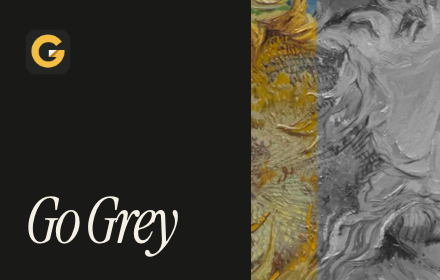
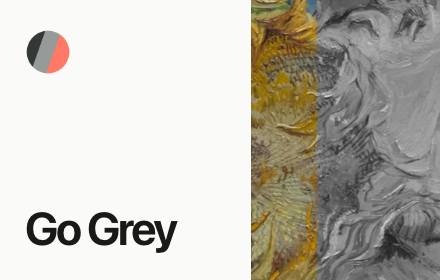
style: simplify the landing page and replace the folded g mark

diff --git a/docs/style.css b/docs/style.css
@@ -1,22 +1,13 @@
-@font-face {
-  font-family: "Instrument Serif";
-  src: url("type/instrument-serif.woff2") format("woff2");
-  font-style: italic;
-  font-weight: 400;
-  font-display: swap;
-}
-
 :root {
   --ink: #191a18;
   --cream: #f6f4ed;
-  --gold: #e5bf69;
-  --line: #42433d;
+  --accent: #ff7966;
+  --line: #ddded9;
   --mono: ui-monospace, "SFMono-Regular", Consolas, monospace;
-  --serif: "Instrument Serif", Georgia, serif;
-  color-scheme: dark;
+  color-scheme: light;
   font-family: -apple-system, BlinkMacSystemFont, "Segoe UI", sans-serif;
-  background: var(--ink);
-  color: var(--cream);
+  background: #fafaf8;
+  color: var(--ink);
 }
 * { box-sizing: border-box; }
 body { margin: 0; }
@@ -27,7 +18,7 @@ a:hover { text-decoration: underline; text-underline-offset: .22em; }
 .skip { position: absolute; top: -5rem; left: 1rem; padding: 10px 15px; background: var(--cream); color: var(--ink); z-index: 5; }
 .skip:focus { top: 1rem; }
 .wrap { width: min(1240px, 88%); margin-inline: auto; }
-.nav, .nav nav, .brand, .nav-action, .cta, .legend, .legend > span, figcaption, footer, footer div {
+.nav, .nav nav, .brand, .cta, .legend, .legend > span, figcaption, footer, footer div {
   display: flex;
   align-items: center;
 }
@@ -36,19 +27,16 @@ a:hover { text-decoration: underline; text-underline-offset: .22em; }
 .brand:hover { text-decoration: none; }
 .brand img { border-radius: 20%; }
 .nav nav { gap: 32px; font-size: 14px; }
-.nav-action, .cta { justify-content: center; gap: 16px; font-weight: 620; }
-.nav-action { border: 1px solid #585951; border-radius: 999px; padding: 10px 17px; }
-.nav-action:hover { border-color: var(--cream); text-decoration: none; }
+.cta { justify-content: center; gap: 16px; font-weight: 620; }
 .hero { display: grid; grid-template-columns: .84fr 1.16fr; align-items: center; gap: clamp(28px, 5vw, 88px); padding-block: clamp(55px, 6.7vw, 100px); }
-h1 { font-size: clamp(66px, 7.9vw, 124px); font-weight: 530; letter-spacing: -.052em; line-height: .98; }
-h1 em, h2 em { font-family: var(--serif); font-weight: 400; letter-spacing: -.018em; }
-h1 em { color: var(--gold); font-size: 1.19em; line-height: .8; }
-.intro > p { color: #c2c1b9; font-size: clamp(17px, 1.32vw, 21px); line-height: 1.55; margin-block: 28px; max-width: 34ch; text-wrap: pretty; }
-.cta { display: inline-flex; min-height: 48px; padding: 0 21px; border-radius: 999px; background: var(--gold); color: var(--ink); font-size: 15px; }
-.cta:hover { background: #f2cf7f; text-decoration: none; }
-.intro small { display: block; margin-top: 13px; font-family: var(--mono); font-size: 11px; color: #afafa5; }
+h1 { font-size: clamp(52px, 5.9vw, 87px); font-weight: 390; letter-spacing: -.055em; line-height: 1.02; }
+h1 strong { font-weight: 650; }
+.intro > p { color: #525551; font-size: 18px; line-height: 1.5; margin-block: 22px 26px; max-width: 34ch; }
+.cta { display: inline-flex; min-height: 44px; padding: 0 20px; border-radius: 7px; background: var(--ink); color: white; font-size: 15px; }
+.cta:hover { background: #393a34; text-decoration: none; }
+.intro small { display: block; margin-top: 12px; font-size: 12px; color: #626560; }
 .hero figure { min-width: 0; }
-.viewer { border: 1px solid #5a5a51; border-radius: 8px; overflow: hidden; background: #262722; }
+.viewer { border: 1px solid #c9cbc6; border-radius: 8px; overflow: hidden; background: white; }
 .feed-stage { --split: 50%; position: relative; isolation: isolate; color: #232825; background: #e8e9e4; color-scheme: light; }
 .feed-bar { height: 43px; display: flex; align-items: center; gap: 9px; padding-inline: 16px; background: #fff; border-bottom: 1px solid #d2d5cf; }
 .network-mark { background: #176c9f; color: #fff; font: bold 19px/23px Arial, sans-serif; width: 23px; text-align: center; border-radius: 3px; }
@@ -92,26 +80,24 @@ h1 em { color: var(--gold); font-size: 1.19em; line-height: .8; }
 .seam:focus-visible span, #motion:focus-visible { outline: 3px solid #729fcc; outline-offset: 2px; }
 .legend, figcaption { justify-content: space-between; font: 11px/1.35 var(--mono); }
 .legend { padding: 4px 16px; min-height: 40px; }
-#motion { border: 0; background: transparent; color: var(--cream); font: inherit; padding: 8px; cursor: pointer; }
+#motion { border: 0; background: transparent; color: var(--ink); font: inherit; padding: 8px; cursor: pointer; }
 #motion::before { content: "▷"; margin-right: 5px; }
 #motion.playing::before { content: "Ⅱ"; }
 .legend > span { gap: 7px; }
 .legend i { width: 8px; height: 8px; border-radius: 50%; }
-.color-dot { background: var(--gold); }
+.color-dot { background: var(--accent); }
 .grey-dot { background: #aaa; }
-figcaption { flex-wrap: wrap; gap: 6px 14px; padding: 10px 1px 0; color: #abaea3; }
+figcaption { flex-wrap: wrap; gap: 6px 14px; padding: 10px 1px 0; color: #616560; }
 
-.paper { color-scheme: light; color: var(--ink); background: var(--cream); }
+.paper { color-scheme: light; color: var(--ink); background: transparent; border-top: 1px solid var(--line); }
 .controls, .install { display: grid; grid-template-columns: 1fr 1fr; gap: 8%; padding-block: clamp(54px, 6.5vw, 96px); }
-h2 { max-width: 9ch; font-size: clamp(48px, 5.1vw, 80px); font-weight: 510; line-height: 1; letter-spacing: -.05em; }
-h2 em { display: block; font-size: 1.18em; }
+h2 { max-width: none; font-size: clamp(32px, 3.5vw, 52px); font-weight: 510; line-height: 1; letter-spacing: -.05em; }
 .feature-list > div { display: grid; grid-template-columns: 32% 1fr; gap: 15px; padding-block: 21px; border-bottom: 1px solid #c6c4ba; }
 .feature-list > div:first-child { padding-top: 3px; }
 .feature-list h3 { font-size: clamp(16px, 1.35vw, 21px); letter-spacing: -.035em; font-weight: 600; }
 .feature-list p, .install p { color: #52534d; font-size: 16px; line-height: 1.55; }
 .install { border-top: 1px solid #c6c4ba; }
 .install h2 { max-width: none; }
-.install h2 span { color: #8c6623; }
 .install > div > p { margin-top: 18px; max-width: 35ch; }
 .download .cta { background: var(--ink); color: var(--cream); margin-bottom: 20px; }
 .download .cta:hover { background: #393a34; }
@@ -119,12 +105,12 @@ details { border-bottom: 1px solid #c6c4ba; }
 summary { cursor: pointer; padding-block: 16px; font-weight: 600; }
 details p { padding-bottom: 16px; overflow-wrap: anywhere; }
 code { font: .88em var(--mono); }
-footer { justify-content: space-between; gap: 14px; padding-block: 30px; color: #c4c5bc; font-size: 13px; }
+footer { justify-content: space-between; gap: 14px; padding-block: 30px; color: #555954; font-size: 13px; }
 footer div { gap: 24px; }
 @media (max-width: 800px) {
   .hero { grid-template-columns: .9fr 1.1fr; gap: 25px; }
   .wrap { width: 90%; }
-  .hero h1 { font-size: clamp(55px, 9vw, 74px); }
+  .hero h1 { font-size: clamp(42px, 6vw, 64px); }
   .controls, .install { gap: 5%; grid-template-columns: .8fr 1.2fr; }
   .feature-list > div { display: block; }
   .feature-list h3 { margin-bottom: 5px; }
@@ -134,20 +120,17 @@ footer div { gap: 24px; }
   .nav nav { gap: 16px; font-size: 13px; }
   .brand { font-size: 20px; }
   .brand img { width: 33px; height: 33px; }
-  .nav-action { padding: 9px 13px; gap: 8px; }
   .hero { grid-template-columns: 1fr; gap: 32px; padding-block: 40px; }
-  .hero h1 { font-size: clamp(68px, 15.5vw, 88px); }
+  .hero h1 { font-size: clamp(48px, 11vw, 68px); }
   .intro > p { max-width: 40ch; margin-block: 18px; }
   .controls, .install { grid-template-columns: 1fr; gap: 26px; }
   .controls h2 { max-width: none; }
-  .controls h2 em { display: inline-block; }
   .legend { padding: 4px 12px; }
   .seam > span { width: 34px; height: 34px; font-size: 20px; }
   .feature-list > div { display: grid; grid-template-columns: 30% 1fr; gap: 10px; }
   footer { font-size: 12px; }
 }
 @media (max-width: 380px) {
-  .studio { display: none; }
   .feature-list > div { display: block; }
   footer div { gap: 14px; }
 }

diff --git a/docs/index.html b/docs/index.html
@@ -3,11 +3,10 @@
 <head>
   <meta charset="utf-8">
   <meta name="viewport" content="width=device-width, initial-scale=1">
-  <meta name="theme-color" content="#191a18">
+  <meta name="theme-color" content="#fafaf8">
   <meta name="description" content="Scroll LinkedIn, X, and Instagram in grayscale, photos and videos included. Add TikTok or any other site from the Go Grey toolbar popup.">
-  <title>Go Grey | Your feed, in grey.</title>
+  <title>Go Grey | Grayscale for your feed</title>
   <link rel="icon" href="icon.png">
-  <link rel="preload" as="font" type="font/woff2" href="type/instrument-serif.woff2" crossorigin>
   <link rel="stylesheet" href="style.css">
   <script src="demo.js" defer></script>
 </head>
@@ -16,16 +15,15 @@
   <header class="wrap nav">
     <a class="brand" href="#top"><img src="icon.png" width="38" height="38" alt="">Go Grey</a>
     <nav aria-label="Main navigation">
-      <a class="studio" href="https://orbitlabs.studio/">Orbit Labs <span aria-hidden="true">↗</span></a>
-      <a class="nav-action" href="#install">Get Go Grey <span aria-hidden="true">↓</span></a>
+      <a href="https://github.com/rami-maalouf/go-grey">GitHub ↗</a>
     </nav>
   </header>
   <main id="main">
     <section class="wrap hero" aria-labelledby="hero-title">
       <div class="intro">
-        <h1 id="hero-title">Your feed,<br><em>in grey.</em></h1>
-        <p>Scroll LinkedIn, X, and Instagram in grayscale, videos included. Add TikTok from the toolbar when you want it there, too.</p>
-        <a class="cta" href="#install">Get the extension <span aria-hidden="true">↓</span></a>
+        <h1 id="hero-title">Grayscale for<br><strong>your feed.</strong></h1>
+        <p>Turn LinkedIn, X, and Instagram black and white, including videos. Add TikTok or any other site in a click.</p>
+        <a class="cta" href="#install">Get Go Grey</a>
         <small>For Chrome, Firefox &amp; Zen</small>
       </div>
       <figure aria-label="Interactive social feed comparison">
@@ -65,7 +63,7 @@
     </section>
     <div class="paper">
       <section class="wrap controls" aria-labelledby="controls-title">
-        <h2 id="controls-title">You pick what <em>goes grey.</em></h2>
+        <h2 id="controls-title">How it works</h2>
         <div class="feature-list">
           <div><h3>By website</h3><p>LinkedIn, X, and Instagram start in grey. Add TikTok, YouTube, or any other website from the popup in one click.</p></div>
           <div><h3>By tab</h3><p>Keep one tab in full color while the rest follow your site settings. Or make a single tab grey.</p></div>
@@ -73,7 +71,7 @@
         </div>
       </section>
       <section class="wrap install" id="install" aria-labelledby="install-title">
-        <div><h2 id="install-title">Get Go Grey<span>.</span></h2><p>Download a desktop build from GitHub and follow the steps for your browser.</p></div>
+        <div><h2 id="install-title">Install Go Grey</h2><p>Download a desktop build from GitHub and follow the steps for your browser.</p></div>
         <div class="download">
           <a class="cta" href="https://github.com/rami-maalouf/go-grey/releases">Download builds <span aria-hidden="true">↗</span></a>
           <details><summary>Chrome installation</summary><p>Unzip the Chrome download. Open <code>chrome://extensions</code>, turn on <strong>Developer mode</strong>, then choose <strong>Load unpacked</strong> and select the unzipped folder.</p></details>

diff --git a/build.js b/build.js
@@ -16,7 +16,7 @@ for (const target of ["chrome", "firefox"]) {
   const manifest = {
     manifest_version: 3,
     name: "Go Grey",
-    version: "1.4.1",
+    version: "1.4.2",
     description:
       "Turn any chosen site grayscale, including videos. Start with Instagram, X, and LinkedIn, then add your own sites.",
     homepage_url: "https://rami-maalouf.github.io/go-grey/",

diff --git a/README.md b/README.md
@@ -25,4 +25,4 @@ For a release ZIP, extract it first and use the extracted folder in place of the
 
 ## Store submission
 
-The build produces `dist/go-grey-chrome-1.4.1.zip` and `dist/go-grey-firefox-1.4.1.zip`. Both have their browser-specific `manifest.json` at the archive root. The submission kit includes listing copy, URLs, permission explanations, review steps, and image filenames. [Store submission kit](store/listing.md)
+The build produces `dist/go-grey-chrome-1.4.2.zip` and `dist/go-grey-firefox-1.4.2.zip`. Both have their browser-specific `manifest.json` at the archive root. The submission kit includes listing copy, URLs, permission explanations, review steps, and image filenames. [Store submission kit](store/listing.md)
